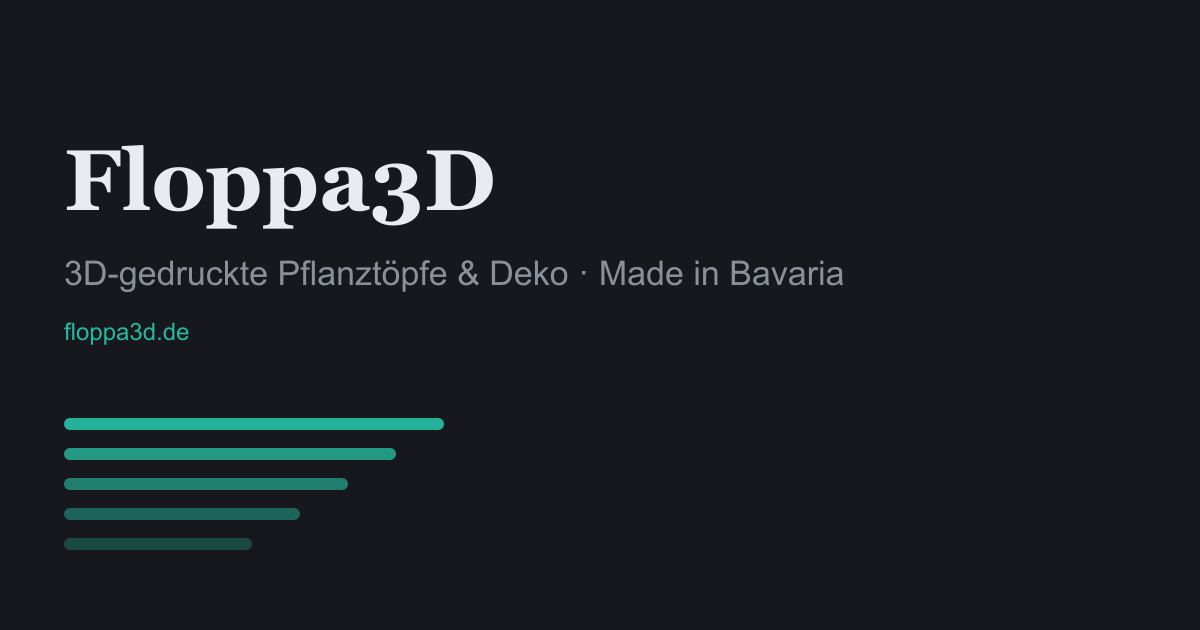
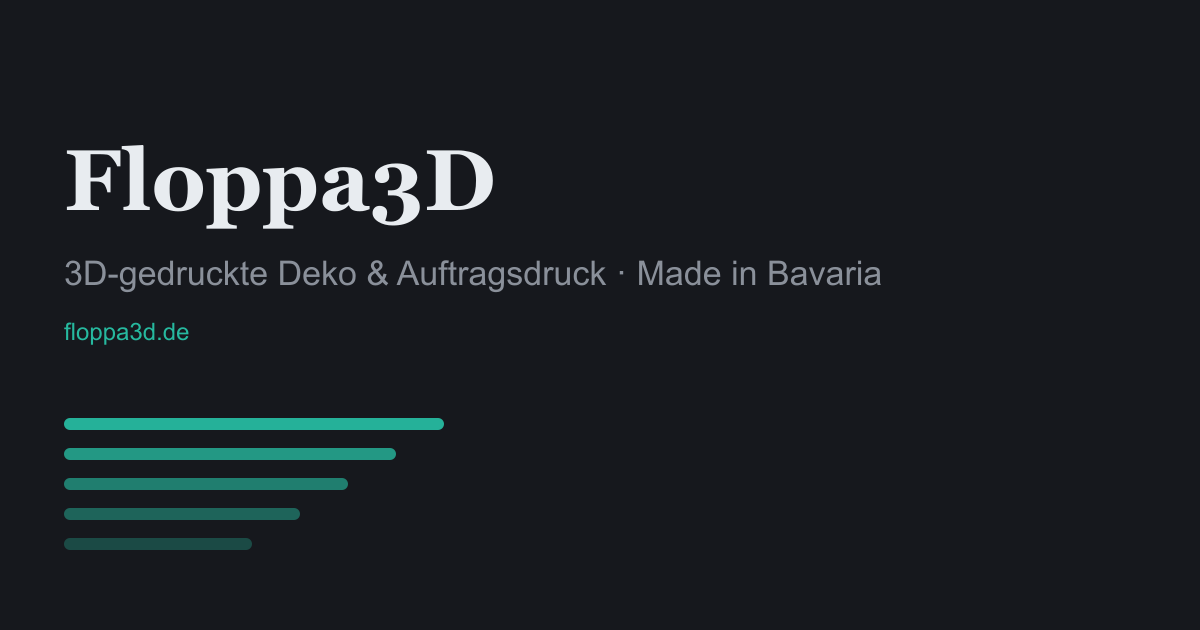
Alte Produkte raus, Kategorien angepasst, Hinweisbanner
- Entfernt: Nordic Flow, Stack Pot, Leaf Dock, Luma Arch, Cozy Bunny, Orbit Key Tray
  (Daten und Bilder); alte Adressen leiten per 301 auf den Shop
- Startseite: Deko und Auftragsdruck statt Blume/Organisation/Deko, Texte ohne
  Pflanztöpfe, Deko-Kachel mit Swirl-Tree-Bild, OG-Bild neu
- Shop: Filter Deko und Auftragsdruck
- Banner „Website im Aufbau, Produkte ab Sonntag, 29. November, 18:00 Uhr“,
  blendet sich zu diesem Zeitpunkt von selbst aus

Changed region(s): [[0.2158, 0.3921, 0.74, 0.4524]]

diff --git a/src/styles/components.css b/src/styles/components.css
@@ -10,6 +10,19 @@
    1. SITE HEADER
    ============================================================================= */
 
+/* Hinweisbanner über dem Kopf (Neustart) */
+.site-banner {
+  background-color: var(--color-fg);
+  color: var(--color-bg);
+  font-size: var(--fs-sm);
+  line-height: 1.4;
+  text-align: center;
+  padding-block: var(--space-2);
+}
+.site-banner p {
+  margin: 0;
+}
+
 .site-header {
   position: sticky;
   top: 0;
@@ -1646,7 +1659,8 @@ html.nav-open {
 /* Per-category background images */
 .category-tile--blumen        { background-image: url('/assets/categories/category-blumen.webp'); }
 .category-tile--organisation  { background-image: url('/assets/categories/category-organisation.webp'); }
-.category-tile--deko          { background-image: url('/assets/categories/category-deko.webp'); }
+.category-tile--deko          { background-image: url('/assets/products/swirl-tree/02.webp'); }
+.category-tile--auftragsdruck { background-image: url('/assets/video/hero-timelapse-poster.webp'); background-position: center top; }
 
 .category-tile__image {
   position: absolute;

diff --git a/src/lib/produkt.ts b/src/lib/produkt.ts
@@ -36,7 +36,7 @@ function pruefeSlugs(): void {
   (data.products as Array<{ slug?: unknown; name?: unknown }>).forEach((p, i) => {
     const wer = `Produkt Nr. ${i + 1}${typeof p.name === 'string' && p.name ? ` („${p.name}")` : ''}`;
     if (typeof p.slug !== 'string' || !p.slug.trim()) {
-      throw new Error(`src/data/products.json: ${wer} hat kein Feld "slug". Jedes Produkt braucht einen eigenen slug (die Adresse, z. B. "nordic-flow").`);
+      throw new Error(`src/data/products.json: ${wer} hat kein Feld "slug". Jedes Produkt braucht einen eigenen slug (die Adresse, z. B. "swirl-tree").`);
     }
     if (gesehen.has(p.slug)) {
       throw new Error(`src/data/products.json: Der slug "${p.slug}" kommt doppelt vor (Produkt Nr. ${gesehen.get(p.slug)} und ${wer}). Jeder slug darf nur einmal vergeben sein.`);

diff --git a/public/scripts/main.js b/public/scripts/main.js
@@ -496,9 +496,18 @@ function setupContactPrefill() {
 }
 
 /**
+ * Hinweisbanner oben: nach dem Zeitpunkt in data-bis ausblenden.
+ */
+function setupSiteBanner() {
+  const banner = document.querySelector('.site-banner[data-bis]');
+  if (banner && Date.now() >= Date.parse(banner.dataset.bis)) banner.hidden = true;
+}
+
+/**
  * Main initialization function
  */
 function init() {
+  setupSiteBanner();
   setupMobileNav();
   setupSmoothScroll();
   setupRevealObserver();

diff --git a/OFFENE-PUNKTE.md b/OFFENE-PUNKTE.md
@@ -4,7 +4,7 @@
 
 ## [Etsy] Angebots-Link je Produkt eintragen (je 1 Min)
 - **Stand:** Der Etsy-Shop ist live (`etsyShopUrl` ist gesetzt). Bis ein Produkt seinen eigenen Link hat, führt der Knopf auf der Produktseite zum Shop („Im Etsy-Shop ansehen"), und die Strukturdaten (JSON-LD) enthalten noch kein Preisangebot (`offers`).
-- **Was fehlt:** Die Adresse des einzelnen Angebots (Listing) für `nordic-flow`, `stack-pot`, `leaf-dock`, `luma-arch`, `cozy-bunny`, `orbit-key-tray`. `custom-fonts` ist Auftragsdruck („auf Anfrage") und verweist auf Kontakt/Auftragsdruck — dort keinen Etsy-Link eintragen.
+- **Was fehlt:** Die Adresse des einzelnen Angebots (Listing) für `swirl-tree` (Entwurf 4622107830), `glow-house` und `custom-fonts` (fertige Auswahl; der zweite Knopf führt weiter zum Auftragsdruck).
 - **Wo:** `src/data/products.json` → je Produkt `etsyUrl` (Format `https://www.etsy.com/de/listing/…`). Schritt für Schritt: README.md.
 - **Danach:** `npm test`, committen, Pull Request. Knopf („Auf Etsy ansehen") und `offers` schalten automatisch um.
 
@@ -23,7 +23,7 @@
 - **Schema:** `public/assets/products/<slug>/farbe-<name>.webp` (Name kleingeschrieben, Leerzeichen → `-`, Umlaute ae/oe/ue/ss; z. B. `farbe-sand-beige.webp`)
 - **Danach:** Committen, Pull Request. Beim Build bekommen die Farbfelder automatisch `data-img` (`src/components/ProductColors.astro`) und wechseln das Hauptbild.
 
-## [P6] GLB + USDZ für die sechs Etsy-Produkte exportieren (ca. 20 Min/Produkt)
+## [P6] GLB + USDZ für die Etsy-Produkte (Swirl Tree, Glow House) exportieren (ca. 20 Min/Produkt)
 - **Was fehlt:** 3D-Modelle unter `public/assets/models/<slug>.glb` (+ `.usdz` für iOS-AR)
 - **Anleitung:** `tools/README-3D.md` — der Viewer erscheint automatisch (Prüfung im Browser), sobald die Dateien liegen.
 

diff --git a/src/content/journal/pla-vs-petg.md b/src/content/journal/pla-vs-petg.md
@@ -24,7 +24,7 @@ order: 1
 <p><strong>Optik:</strong> PLA matt und detailscharf, PETG einen Hauch glänzender und robuster. Geschmackssache ist das nur drinnen – draußen entscheidet die Funktion.</p>
 
 <h2 class="serif">Unsere Empfehlung.</h2>
-<p>Für Schreibtisch, Regal und Fensterbrett ohne pralle Sonne: PLA-Stücke wie der «Luma Arch» oder der «Orbit Key Tray» – dort spielen Detailschärfe und matte Oberfläche ihre Stärken aus. Für alles, was gegossen wird oder auf Balkon und Terrasse (überdacht) steht: PETG-Töpfe wie der «Nordic Flow» oder der «StackPot». Bei extremen Minusgraden holen Sie empfindlichere Stücke besser ins Innere – Frost macht jeden Kunststoff spröder.</p>
+<p>Für Schreibtisch, Regal und Fensterbrett ohne pralle Sonne: PLA-Stücke wie unser gedrehter Mini-Tannenbaum oder das Lichthaus – dort spielen Detailschärfe und matte Oberfläche ihre Stärken aus. Für alles, was gegossen wird oder auf Balkon und Terrasse (überdacht) steht: PETG. Bei extremen Minusgraden holen Sie empfindlichere Stücke besser ins Innere – Frost macht jeden Kunststoff spröder.</p>
 
 <h2 class="serif">Noch ein Pflege-Hinweis.</h2>
 <p>Egal welches Material: Reinigen Sie Ihre Stücke mit einem leicht feuchten Tuch und lauwarmem Wasser, ohne aggressive oder scheuernde Mittel. Wie das im Detail geht – und was Sie bei Kratzern tun können – steht in unserem Beitrag <a href="/journal/3d-druck-deko-pflegen.html">3D-gedruckte Deko richtig pflegen</a>.</p>

diff --git a/tools/README-3D.md b/tools/README-3D.md
@@ -2,7 +2,7 @@
 
 Der Viewer auf den Produktseiten blendet sich automatisch ein, sobald unter
 `public/assets/models/<slug>.glb` ein Modell liegt (iOS-AR zusätzlich `<slug>.usdz`).
-Slugs: `nordic-flow`, `stack-pot`, `leaf-dock`, `luma-arch`, `cozy-bunny`, `orbit-key-tray` (`custom-fonts` ist Auftragsdruck, dafür gibt es kein Modell).
+Slugs: `swirl-tree`, `glow-house`, `custom-fonts`.
 
 ## Schritt für Schritt (ca. 20 Min pro Produkt)
 
